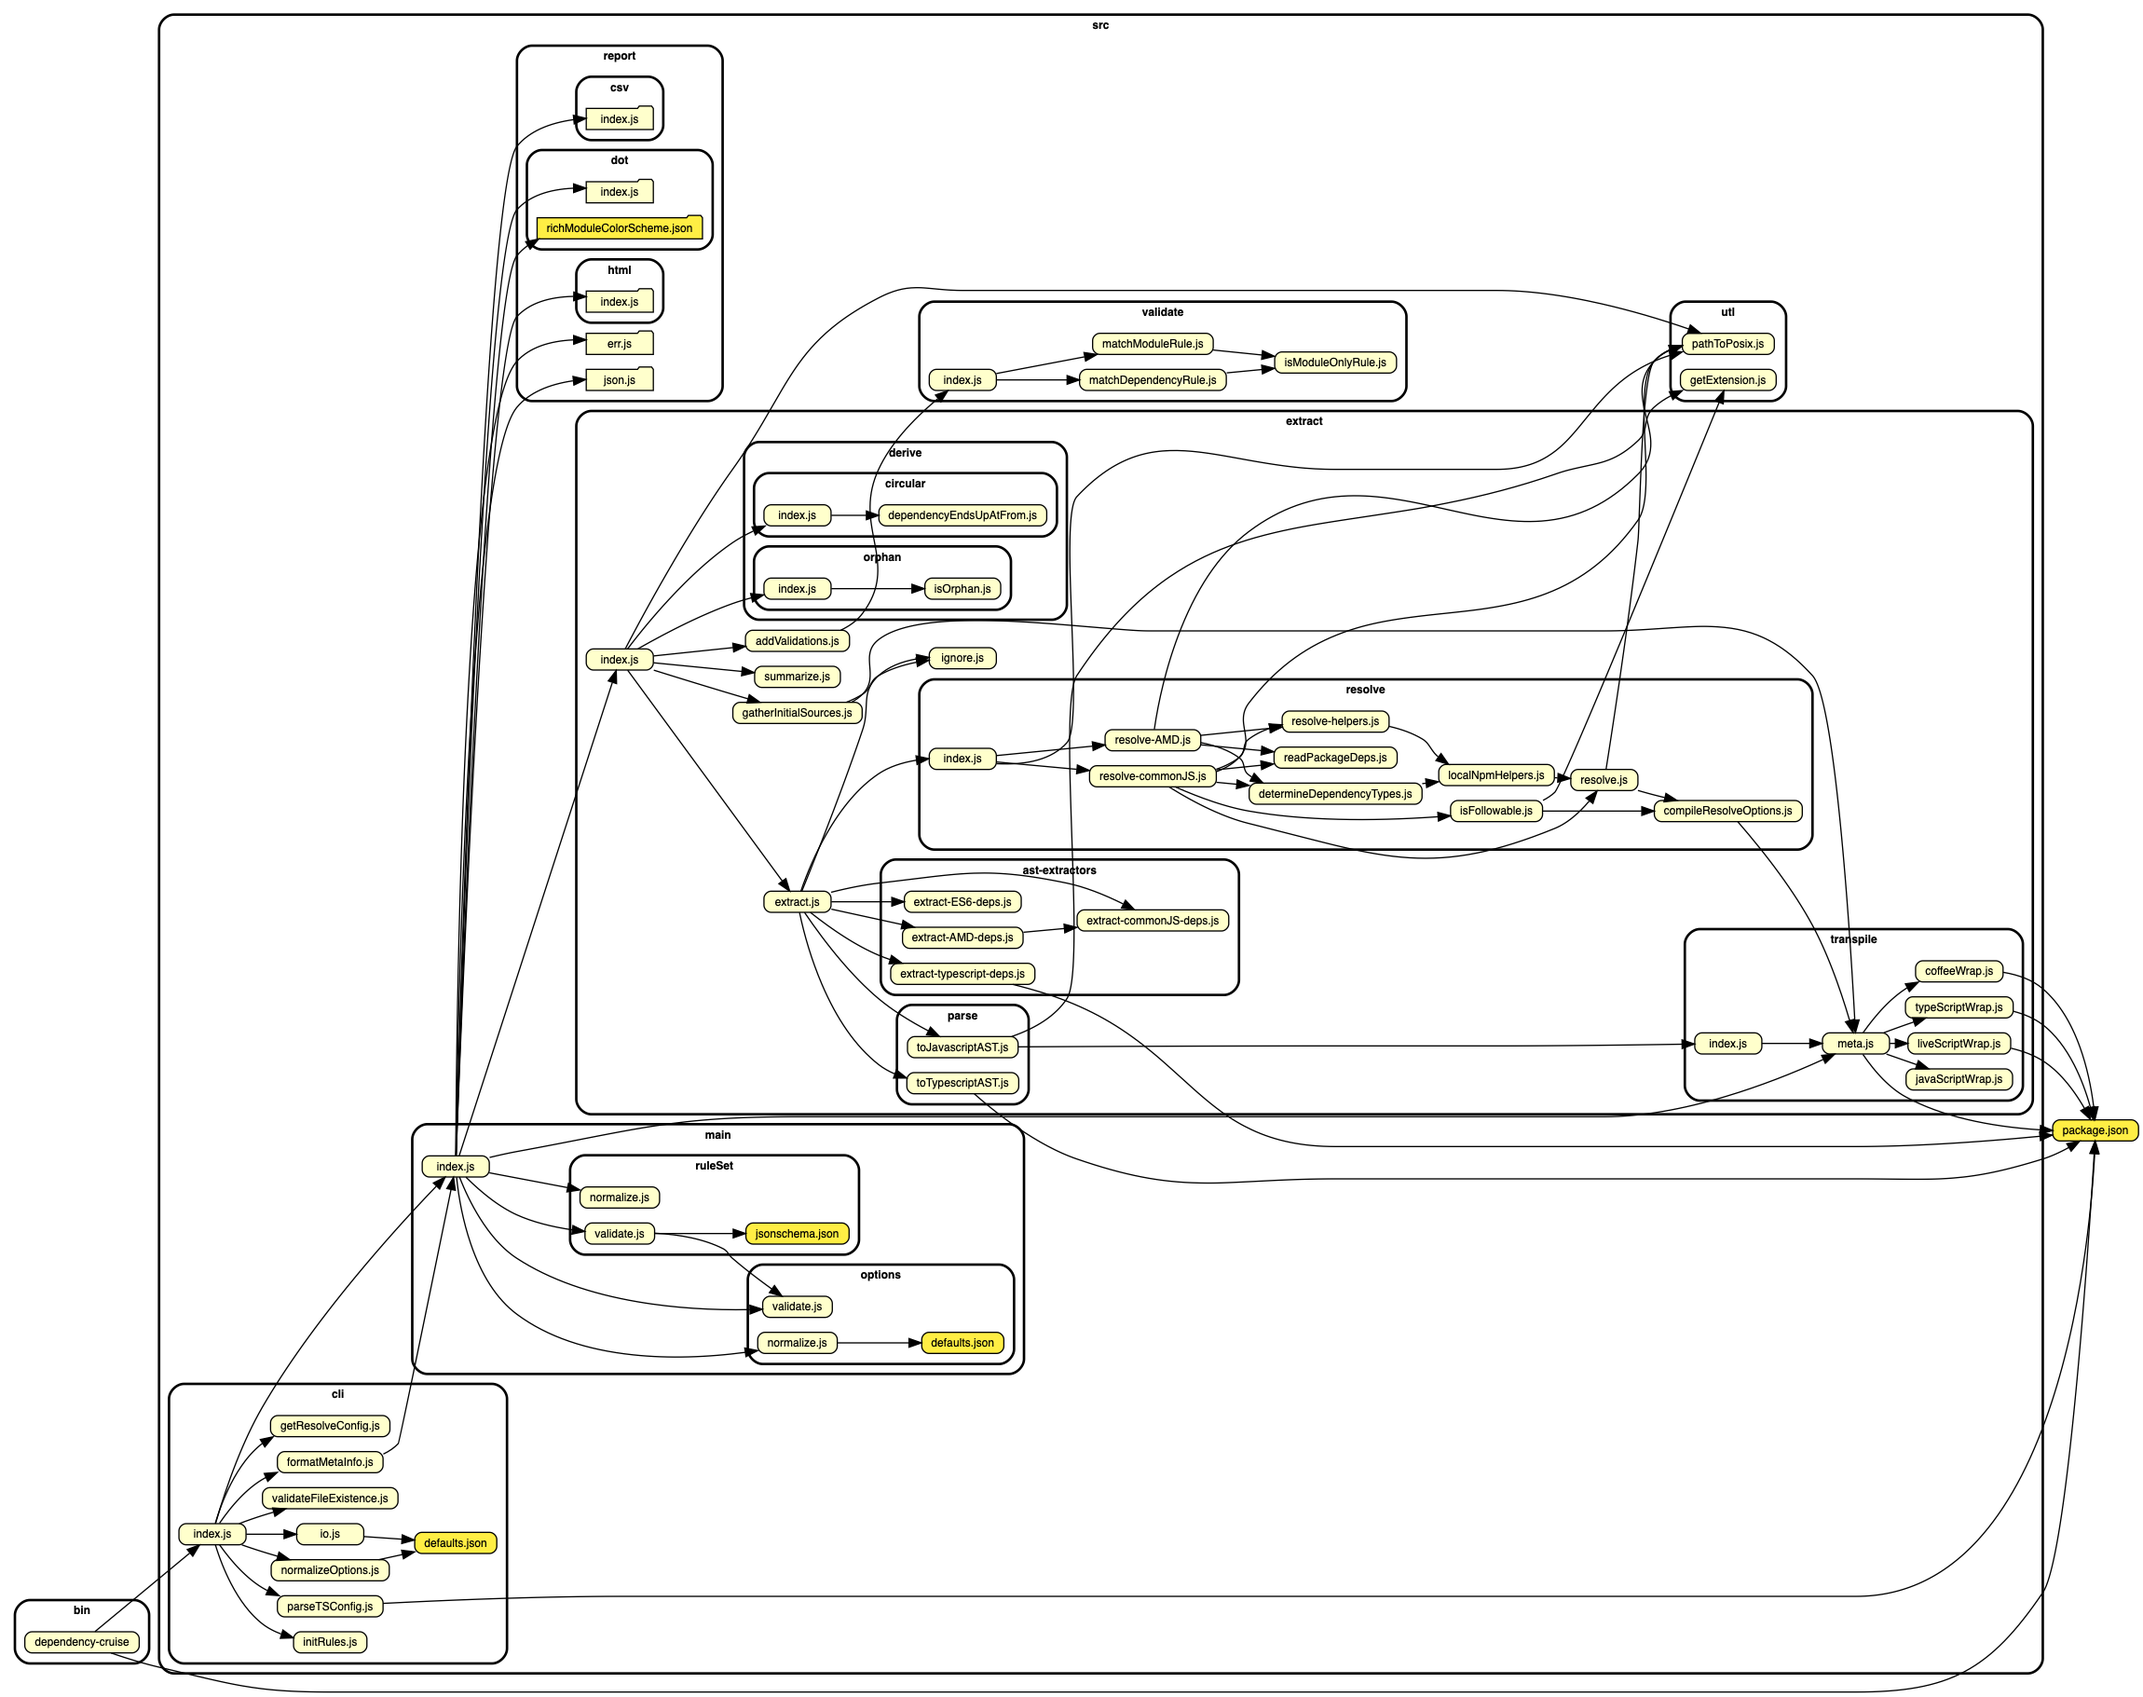
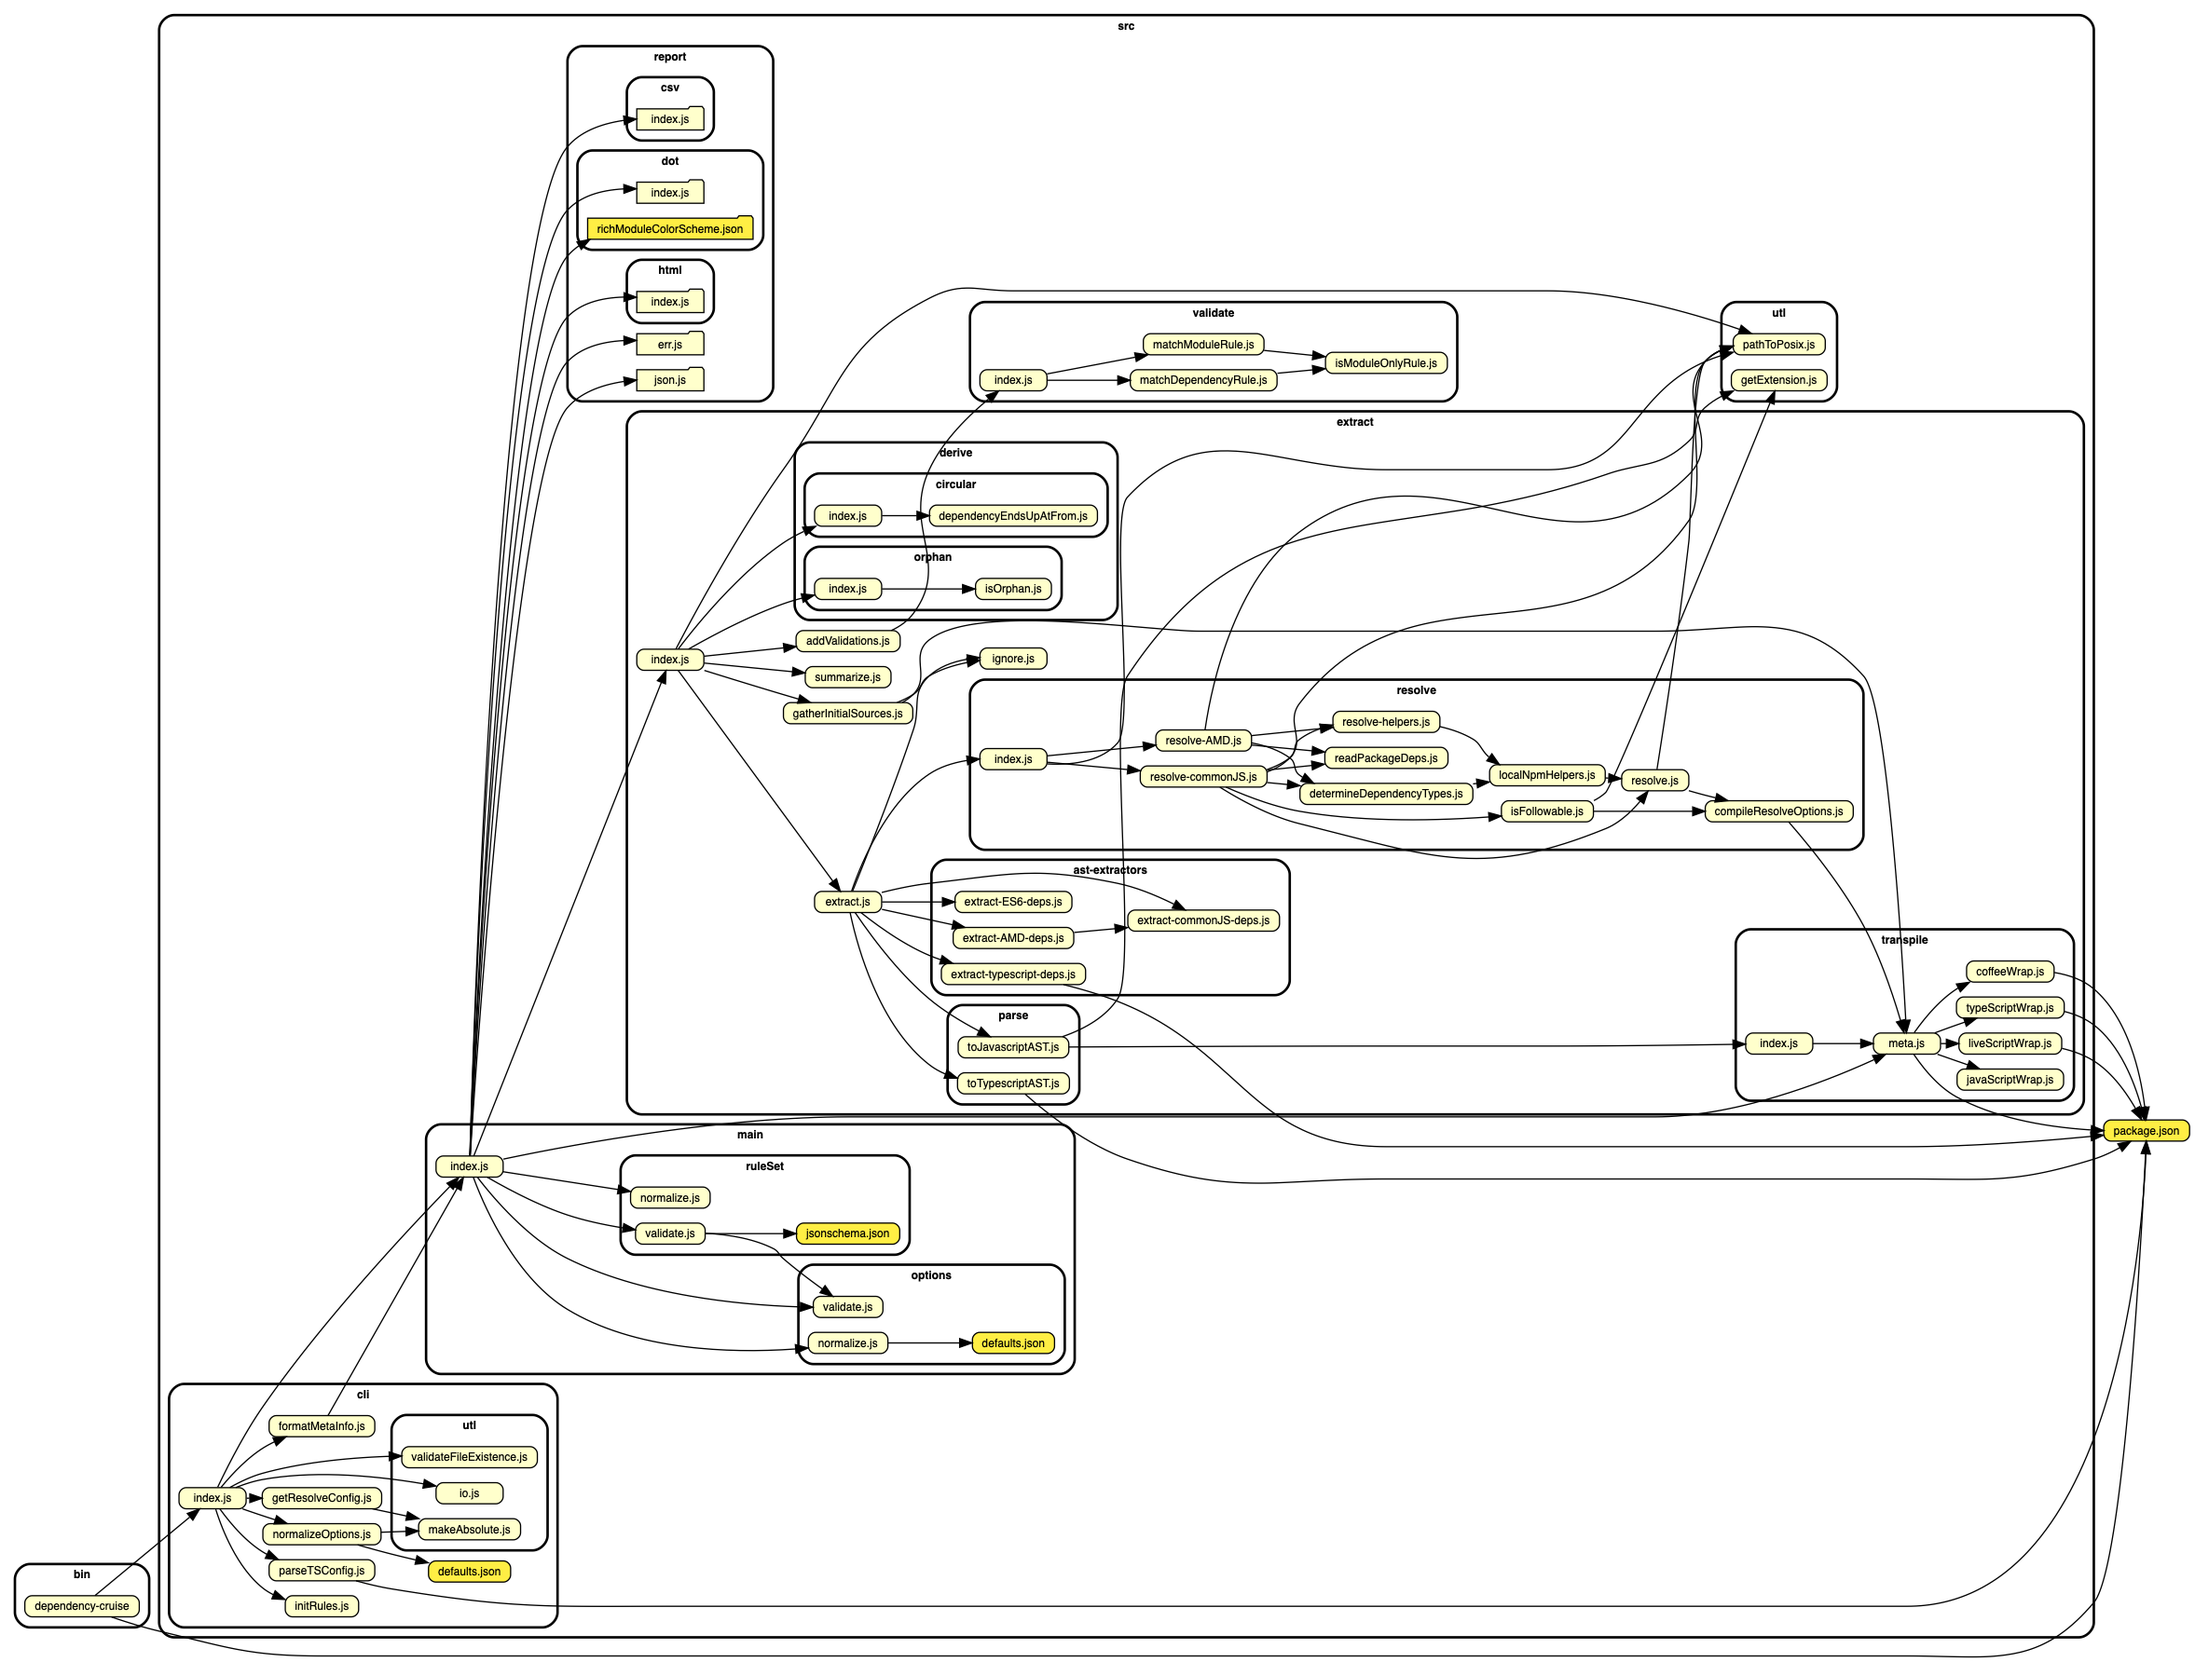
feature(cli): allow javascript config files (#74)

diff --git a/test/cli/normalizeOptions.spec.js b/test/cli/normalizeOptions.spec.js
@@ -1,3 +1,4 @@
+const path             = require('path');
 const expect           = require('chai').expect;
 const normalizeOptions = require('../../src/cli/normalizeOptions');
 
@@ -65,6 +66,60 @@ describe("normalizeOptions", () => {
                 outputTo: "-",
                 outputType: "err",
                 rulesFile: "./test/cli/fixtures/rules.withcomments.json",
+                "ruleSet": {
+                    "forbidden": [
+                        {
+                            "name": "sub-not-allowed",
+                            "severity": "warn",
+                            "from": {
+                            },
+                            "to": {
+                                "path": "sub"
+                            }
+                        }
+                    ]
+                },
+                validate: true
+            }
+        );
+    });
+
+    it("accepts and interprets a javascript rule file (relative path)", () => {
+        expect(
+            normalizeOptions({validate: "./test/cli/fixtures/rules.withcomments.js"})
+        ).to.deep.equal(
+            {
+                outputTo: "-",
+                outputType: "err",
+                rulesFile: "./test/cli/fixtures/rules.withcomments.js",
+                "ruleSet": {
+                    "forbidden": [
+                        {
+                            "name": "sub-not-allowed",
+                            "severity": "warn",
+                            "from": {
+                            },
+                            "to": {
+                                "path": "sub"
+                            }
+                        }
+                    ]
+                },
+                validate: true
+            }
+        );
+    });
+
+    it("accepts and interprets a javascript rule file (absolute path)", () => {
+        const lRulesFileName = path.join(__dirname, "fixtures/rules.withcomments.js");
+
+        expect(
+            normalizeOptions({validate: lRulesFileName})
+        ).to.deep.equal(
+            {
+                outputTo: "-",
+                outputType: "err",
+                rulesFile: lRulesFileName,
                 "ruleSet": {
                     "forbidden": [
                         {

diff --git a/src/cli/normalizeOptions.js b/src/cli/normalizeOptions.js
@@ -1,11 +1,11 @@
-"use strict";
-
-const fs       = require('fs');
-const _set     = require('lodash/set');
-const _get     = require('lodash/get');
-const _clone   = require('lodash/clone');
+const fs           = require('fs');
+const path         = require('path');
+const _set         = require('lodash/set');
+const _get         = require('lodash/get');
+const _clone       = require('lodash/clone');
 const stripJSONComments = require('strip-json-comments');
-const defaults = require('./defaults.json');
+const makeAbsolute = require('./utl/makeAbsolute');
+const defaults     = require('./defaults.json');
 
 function getOptionValue(pDefault) {
     return (pValue) => {
@@ -25,6 +25,7 @@ function normalizeConfigFile(pOptions, pConfigWrapperName, pDefault) {
         _set(
             lOptions, `ruleSet.options.${pConfigWrapperName}.fileName`,
             getOptionValue(pDefault)(lOptions[pConfigWrapperName])
+            /* eslint security/detect-object-injection: 0 */
         );
         Reflect.deleteProperty(lOptions, pConfigWrapperName);
     }
@@ -40,7 +41,18 @@ function normalizeConfigFile(pOptions, pConfigWrapperName, pDefault) {
 
     return lOptions;
 }
-/* eslint security/detect-object-injection: 0 */
+
+function extractRuleSet(pRulesFile) {
+    if (path.extname(pRulesFile) === '.js') {
+        /* eslint global-require:0, security/detect-non-literal-require:0, import/no-dynamic-require:0 */
+        return require(makeAbsolute(pRulesFile));
+    }
+    return JSON.parse(
+        stripJSONComments(
+            fs.readFileSync(pRulesFile, 'utf8')
+        )
+    );
+}
 
 /**
  * returns the pOptions, so that the returned value contains a
@@ -64,11 +76,7 @@ module.exports = (pOptions) => {
 
     if (pOptions.hasOwnProperty("validate")){
         pOptions.rulesFile = module.exports.determineRulesFileName(pOptions.validate);
-        pOptions.ruleSet   = JSON.parse(
-            stripJSONComments(
-                fs.readFileSync(pOptions.rulesFile, 'utf8')
-            )
-        );
+        pOptions.ruleSet   = extractRuleSet(pOptions.rulesFile);
     }
 
     pOptions = normalizeConfigFile(pOptions, "webpackConfig", defaults.WEBPACK_CONFIG);

diff --git a/src/cli/index.js b/src/cli/index.js
@@ -1,14 +1,12 @@
-"use strict";
-
 const glob                    = require('glob');
 const _get                    = require('lodash/get');
 const main                    = require('../main');
 const parseTSConfig           = require('./parseTSConfig');
 const getResolveConfig        = require('./getResolveConfig');
-const validateFileExistence   = require('./validateFileExistence');
+const validateFileExistence   = require('./utl/validateFileExistence');
 const normalizeOptions        = require('./normalizeOptions');
 const initRules               = require('./initRules');
-const io                      = require('./io');
+const io                      = require('./utl/io');
 const formatMetaInfo          = require('./formatMetaInfo');
 
 

diff --git a/src/cli/utl/io.js b/src/cli/utl/io.js
@@ -1,5 +1,6 @@
-const fs                    = require('fs');
-const defaults              = require('./defaults.json');
+const fs               = require('fs');
+
+const PIPE_BUFFER_SIZE = 512;
 
 function writeToFile(pOutputTo, pDependencyString) {
     try {
@@ -39,7 +40,7 @@ function writeToStdOut(pString, pBufferSize) {
 function write (pOutputTo, pContent) {
     if ("-" === pOutputTo) {
         // OS pipe buffer size in bytes - which is what ulimit -a tells me on OSX
-        writeToStdOut(pContent, defaults.PIPE_BUFFER_SIZE);
+        writeToStdOut(pContent, PIPE_BUFFER_SIZE);
     } else {
         writeToFile(pOutputTo, pContent);
     }

diff --git a/src/cli/getResolveConfig.js b/src/cli/getResolveConfig.js
@@ -1,4 +1,4 @@
-const path = require('path');
+const makeAbsolute = require('./utl/makeAbsolute');
 
 function pryConfigFromTheConfig(pWebpackConfigModule, pEnvironment, pArguments){
     let lRetval = pWebpackConfigModule;
@@ -14,15 +14,6 @@ function pryConfigFromTheConfig(pWebpackConfigModule, pEnvironment, pArguments){
     return lRetval;
 }
 
-function makeAbsolute (pFilename) {
-    let lRetval = pFilename;
-
-    if (!path.isAbsolute(pFilename)) {
-        lRetval = path.join(process.cwd(), pFilename);
-    }
-    return lRetval;
-
-}
 
 module.exports = (pWebpackConfigFilename, pEnvironment, pArguments) => {
     let lRetval = {};

diff --git a/test/cli/utl/makeAbsolute.spec.js b/test/cli/utl/makeAbsolute.spec.js
@@ -1,0 +1,17 @@
+const path         = require('path');
+const expect       = require('chai').expect;
+const makeAbsolute = require('../../../src/cli/utl/makeAbsolute');
+
+describe("makeAbsolute", () => {
+    it("leaves absolute path names alone", () => {
+        expect(
+            makeAbsolute("/hallo/dit/is/een/absoluut/pad")
+        ).to.equal("/hallo/dit/is/een/absoluut/pad");
+    });
+
+    it("puts the current working directory in front of non-absolute paths", () => {
+        expect(
+            makeAbsolute("pad")
+        ).to.equal(path.join(process.cwd(), "pad"));
+    });
+});

diff --git a/test/cli/utl/validateFileExistence.spec.js b/test/cli/utl/validateFileExistence.spec.js
@@ -1,6 +1,5 @@
-"use strict";
-const expect             = require('chai').expect;
-const validateFileExistence = require('../../src/cli/validateFileExistence');
+const expect                = require('chai').expect;
+const validateFileExistence = require('../../../src/cli/utl/validateFileExistence');
 
 describe("validateFileExistence", () => {
     it("throws when the file or dir passed does not exists", () => {

diff --git a/test/cli/fixtures/rules.withcomments.js b/test/cli/fixtures/rules.withcomments.js
@@ -1,0 +1,16 @@
+module.exports = {
+    // this is a comment
+    "forbidden": [
+        {
+            /* this is another comment*/
+            "name": "sub-not-allowed",
+            "severity": "warn",
+            "from": {
+                // left empty on poipos
+            },
+            "to": {
+                "path": "sub"
+            }
+        }
+    ]
+};

diff --git a/src/cli/utl/makeAbsolute.js b/src/cli/utl/makeAbsolute.js
@@ -1,0 +1,11 @@
+const path = require('path');
+
+module.exports = (pFilename) => {
+    let lRetval = pFilename;
+
+    if (!path.isAbsolute(pFilename)) {
+        lRetval = path.join(process.cwd(), pFilename);
+    }
+    return lRetval;
+
+};

diff --git a/doc/rules-reference.md b/doc/rules-reference.md
@@ -464,5 +464,39 @@ Things to keep in mind:
   the detection in without a rule set or without an orphan rule,
   pass `forceOrphanCheck: true` as part of the `pOptions` parameter.
 
+## Rules in a javascript configuration
+From version 4.7.0 you can pass a javascript module to `--validate`.
+It'll work as long as it exports a valid configuration object 
+and node can understand it.
+
+This allows you to do all sorts of nifty stuff, like composing
+rule sets or using function predicates in rules. For example:
+
+```javascript
+const baseRules = require('./.dependency-cruiser.base.config')
+
+const additionalRules = {
+    forbidden: [
+        {
+            name: 'sub-not-allowed,
+            severity: 'warn',
+            from: {
+                // left empty on purpose
+            },
+            to: {
+                path: 'sub'
+            }
+        }
+    ],
+    options: {
+        tsConfig: {
+            fileName: './tsconfig.json'
+        }
+    }
+};
+
+module.exports = Object.assign({}, baseRules, additionalRules)
+```
+
 ## A starter rule set
 You can find the one dependency-cruiser uses on initialization [here](./rules.starter.json)

diff --git a/doc/cli.md b/doc/cli.md
@@ -121,10 +121,12 @@ And with `--max-depth 3` like this:
 
 ### `--validate`
 Validates against a list of rules in a rules file. This defaults to a file
-called `.dependency-cruiser.json`, but you can specify your own rules file.
+called `.dependency-cruiser.json`, but you can specify your own rules file,
+which can be in json format or a valid node module returning a rules object
+literal.
 
 ```shell
-dependency-cruise -x node_modules --validate my.rules.json
+dependency-cruise -x node_modules --validate my.rules.json src spec
 ```
 
 > _Tip_: usually you don't need to specify the rules file. However if run 
